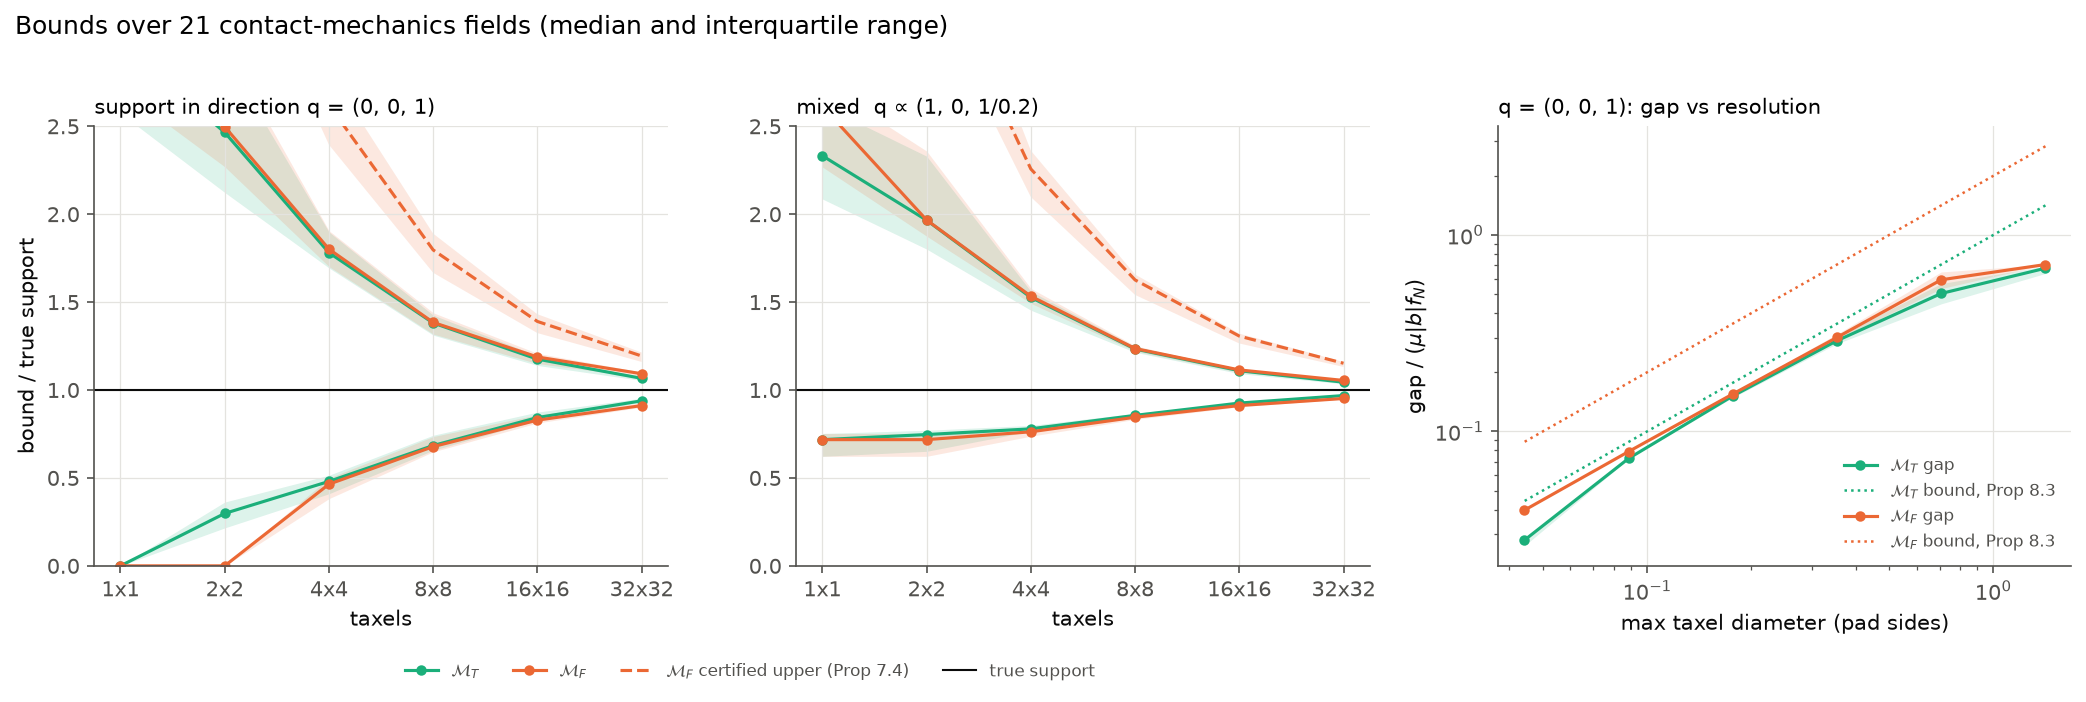
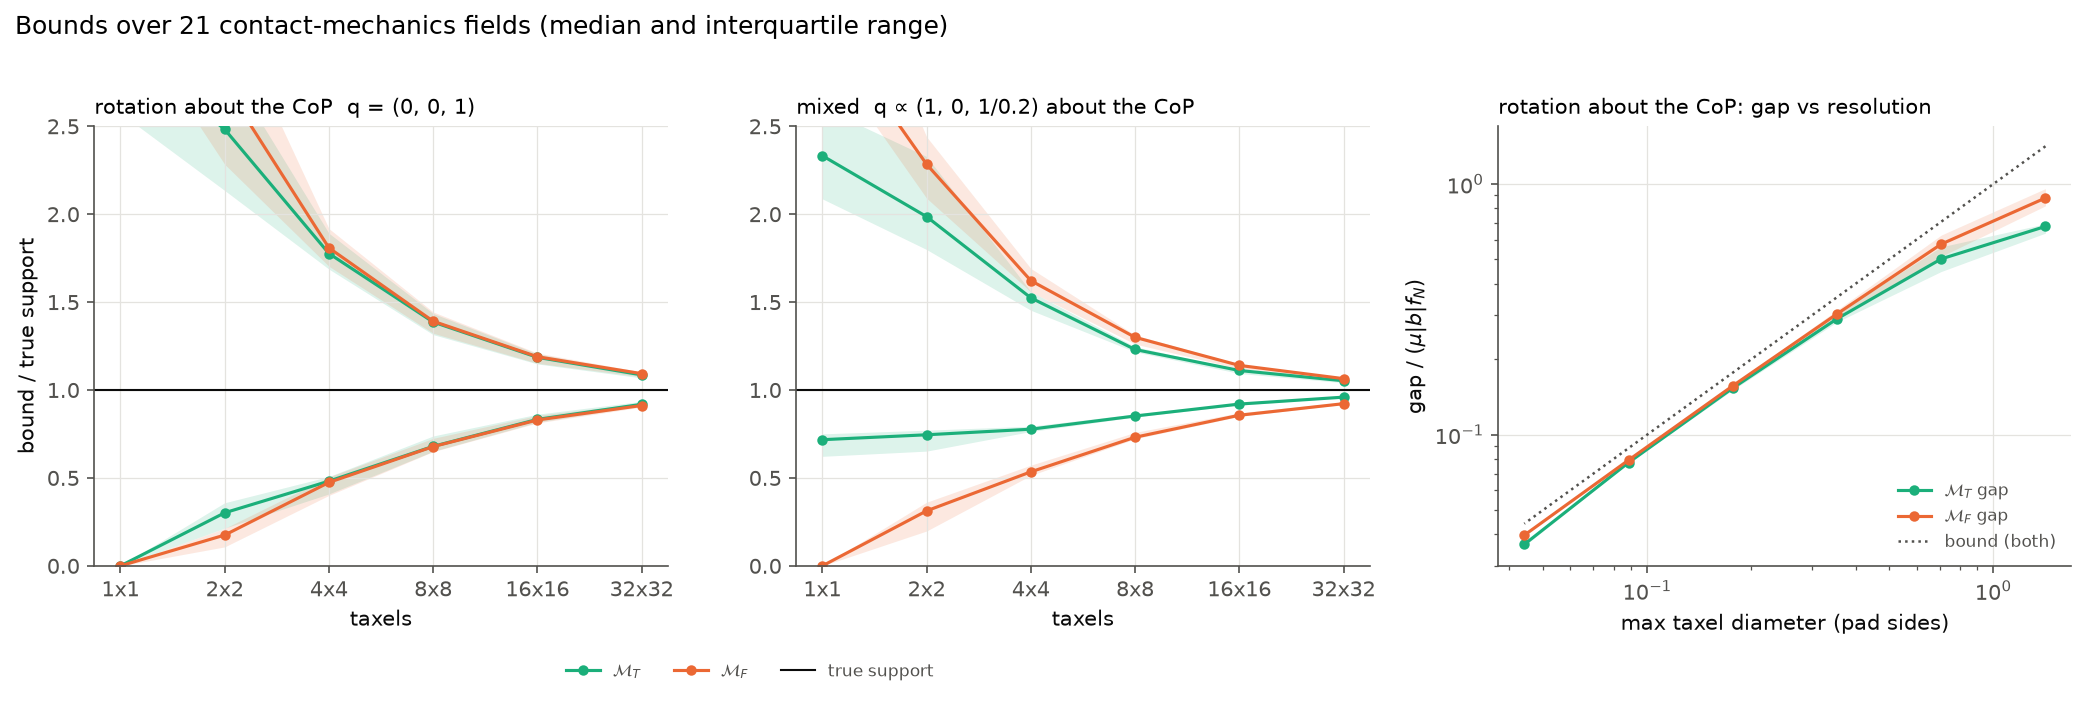
Population studies on a 129x129 support grid (4 grid spacings per taxel at 32x32)
At 65x65 the 32x32 taxels held only 2 grid spacings, which inflated the M_T vs M_F
difference at that resolution. Regenerated previews of examples 07-10.

diff --git a/examples/_study.py b/examples/_study.py
@@ -30,7 +30,7 @@ def get_study(description):
     parser.add_argument("--recompute", action="store_true", help="ignore the cached study")
     args = parser.parse_args()
 
-    patch = pfb.Patch(1.0, 1.0, N=64)  # unit pad; all lengths in pad sides
+    patch = pfb.Patch(1.0, 1.0, N=128)  # unit pad; all lengths in pad sides (4 grid spacings per taxel at 32x32)
     fields = pfb.population(patch, n_per_family=1 if args.quick else 3, seed=0)
     ks = [1, 2, 4, 8, 16] if args.quick else [1, 2, 4, 8, 16, 32]
     cache = DATA / ("study_quick.npz" if args.quick else "study.npz")

diff --git a/examples/10_load_factor.py b/examples/10_load_factor.py
@@ -18,7 +18,7 @@ from pfb.certify import PadTerm, load_factor_lower, load_factor_true, load_facto
 from pfb.plot import LABEL, plot_band
 
 MU = 1.0
-patch = pfb.Patch(1.0, 1.0, N=64)
+patch = pfb.Patch(1.0, 1.0, N=128)  # 4 grid spacings per taxel at 32x32
 fields = pfb.population(patch, n_per_family=3, seed=0)
 o = np.array([0.5, 0.5])  # loads are expressed about the pad centre
 LOADS = {"pure torque  w = (0, 0, 1)": np.array([0.0, 0.0, 1.0]),
